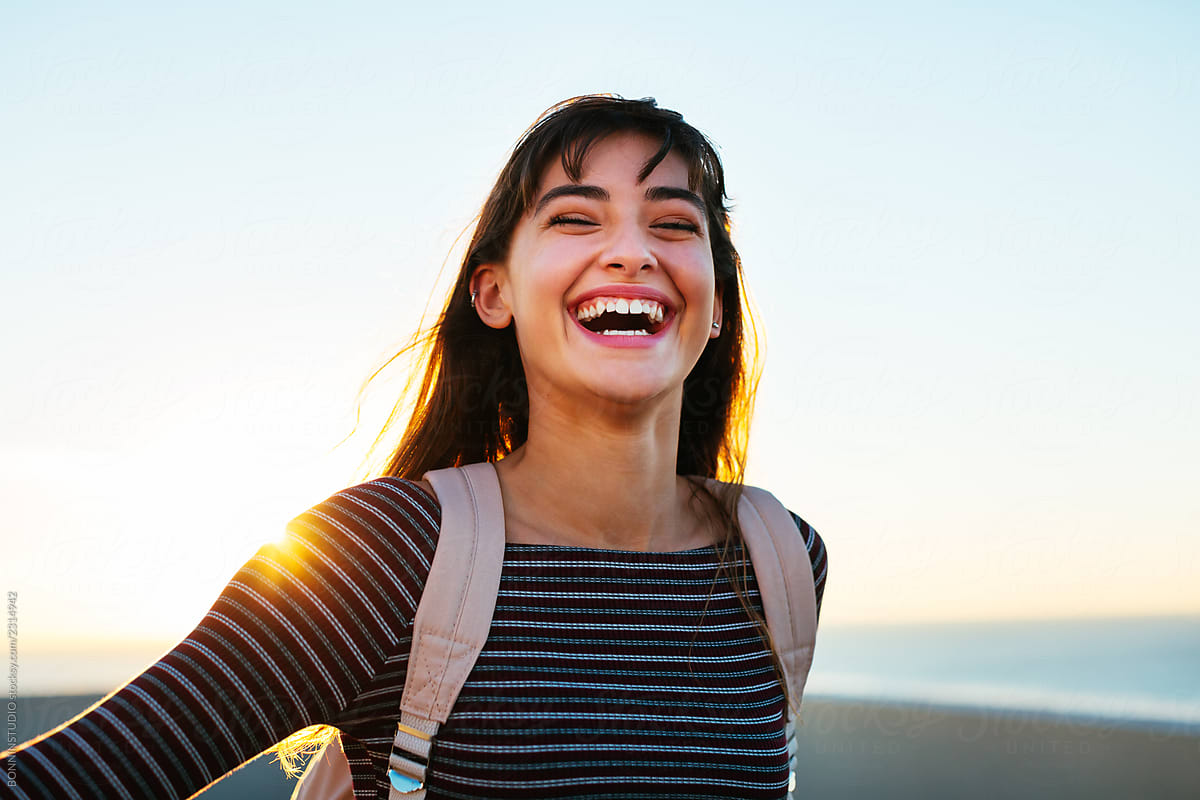
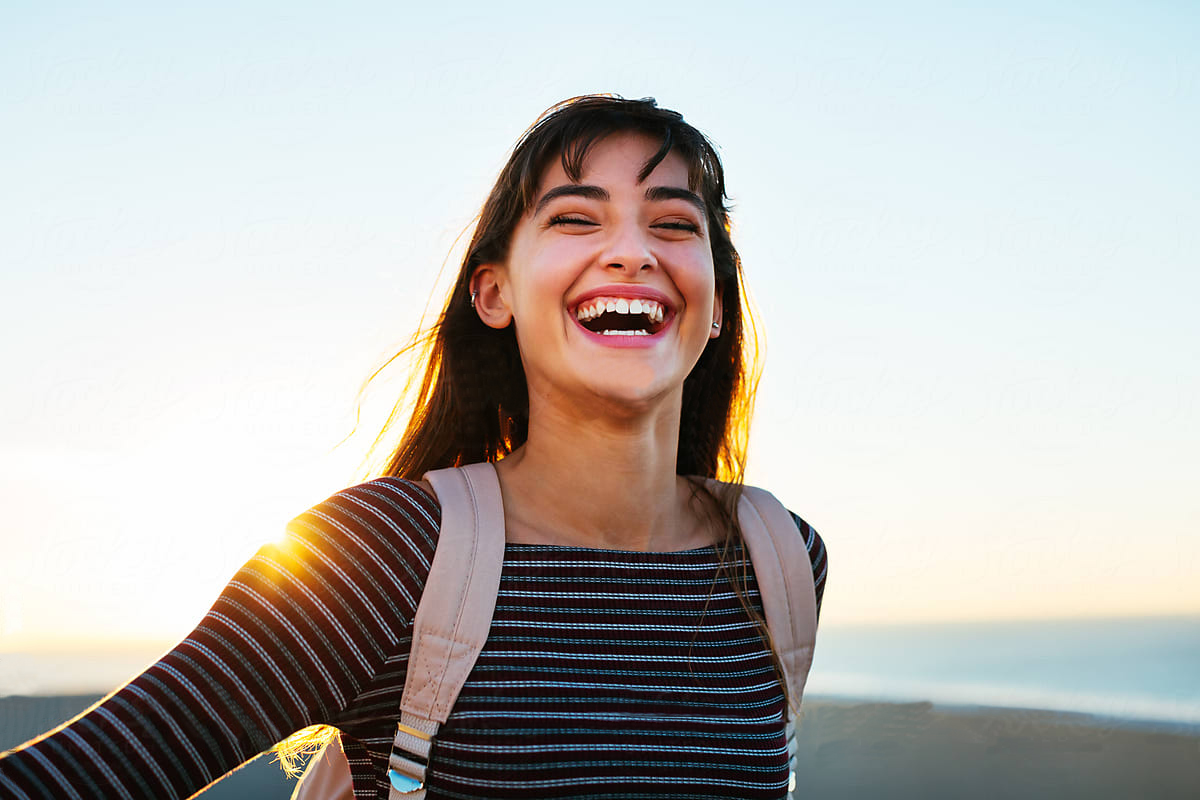
add hero image without watermark

diff --git a/client/src/components/Homepage/Home.css b/client/src/components/Homepage/Home.css
@@ -111,8 +111,6 @@
   color: #2d5588;
 }
 .mockup-container {
-  min-width: 20rem;
-  display: block;
   position: relative;
   display: flex;
   justify-content: center;
@@ -130,8 +128,8 @@
   width: 20rem;
   border: 3px solid red;
   position: absolute;
-  top: 10rem;
-  left: 24rem;
+  top: 0rem;
+  left: 0rem;
 }
 
 .info-bubble-right {
